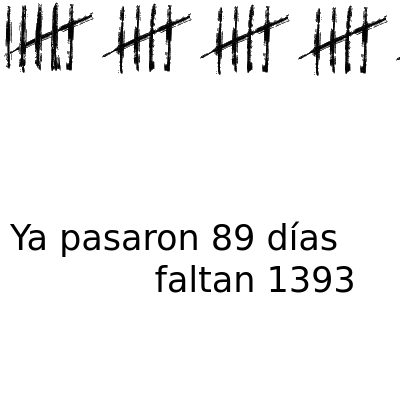
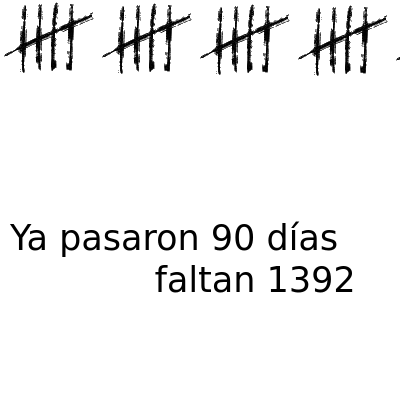
deploy: 28882f26f23b9f53dac6c4991168e610486d0e44

Changed region(s): [[0.0, 0.0, 0.15, 0.18], [0.51, 0.57, 0.63, 0.63], [0.84, 0.66, 0.9, 0.75]]

diff --git a/index.html b/index.html
@@ -3,19 +3,19 @@
   <head>
     <meta charset='utf-8'>
     <meta http-equiv='X-UA-Compatible' content='IE=edge'>
-    <title>Ya pasaron 89 días y faltan 1393</title>
-    <meta name="description" content="Ya pasaron 89 días y faltan 1393">
-    <meta itemprop="name" content="Ya pasaron 89 días y faltan 1393">
-    <meta itemprop="description" content="Ya pasaron 89 días y faltan 1393">
+    <title>Ya pasaron 90 días y faltan 1392</title>
+    <meta name="description" content="Ya pasaron 90 días y faltan 1392">
+    <meta itemprop="name" content="Ya pasaron 90 días y faltan 1392">
+    <meta itemprop="description" content="Ya pasaron 90 días y faltan 1392">
     <meta name="twitter:card" content="summary">
-    <meta name="twitter:title" content="Ya pasaron 89 días y faltan 1393">
-    <meta name="twitter:description" content="Ya pasaron 89 días y faltan 1393">
+    <meta name="twitter:title" content="Ya pasaron 90 días y faltan 1392">
+    <meta name="twitter:description" content="Ya pasaron 90 días y faltan 1392">
     <meta name="twitter:creator" content="@FloriusWasTaken">
     <meta name="twitter:image" content="https://pasaron.meme.ar/capture.png">
-    <meta property="og:title" content="Ya pasaron 89 días y faltan 1393">
-    <meta property="og:description" content="Ya pasaron 89 días y faltan 1393">
+    <meta property="og:title" content="Ya pasaron 90 días y faltan 1392">
+    <meta property="og:description" content="Ya pasaron 90 días y faltan 1392">
     <meta property="og:url" content="https://pasaron.meme.ar">
-    <meta property="og:site_name" content="Ya pasaron 89 días y faltan 1393">
+    <meta property="og:site_name" content="Ya pasaron 90 días y faltan 1392">
     <meta property="og:type" content="website">
     <meta property="og:image" content="https://pasaron.meme.ar/capture.png">
     <meta name="theme-color" content="#dc143c">
@@ -69,18 +69,16 @@
         padding: 0;
       }
     </style>
-    <title>Ya pasaron 89 días y faltan 1393</title>
+    <title>Ya pasaron 90 días y faltan 1392</title>
   </head>
   <body>
     <div id="main">
-      <img src="img/5.png"/><img src="img/5.png"/><img src="img/5.png"/><img src="img/5.png"/><img src="img/5.png"/><img src="img/5.png"/><img src="img/5.png"/><img src="img/5.png"/><img src="img/5.png"/><img src="img/5.png"/><img src="img/5.png"/><img src="img/5.png"/><img src="img/5.png"/><img src="img/5.png"/><img src="img/5.png"/><img src="img/5.png"/><img src="img/5.png"/>
-      
-        <img src="img/4.png"/>
+      <img src="img/5.png"/><img src="img/5.png"/><img src="img/5.png"/><img src="img/5.png"/><img src="img/5.png"/><img src="img/5.png"/><img src="img/5.png"/><img src="img/5.png"/><img src="img/5.png"/><img src="img/5.png"/><img src="img/5.png"/><img src="img/5.png"/><img src="img/5.png"/><img src="img/5.png"/><img src="img/5.png"/><img src="img/5.png"/><img src="img/5.png"/><img src="img/5.png"/>
       
     </div>
     <footer id="footer">
       <marquee id="marquee" class="is-vertical-align">
-        Ya pasaron 89 días y faltan 1393
+        Ya pasaron 90 días y faltan 1392
       </marquee>
       <ul>
         <li>
